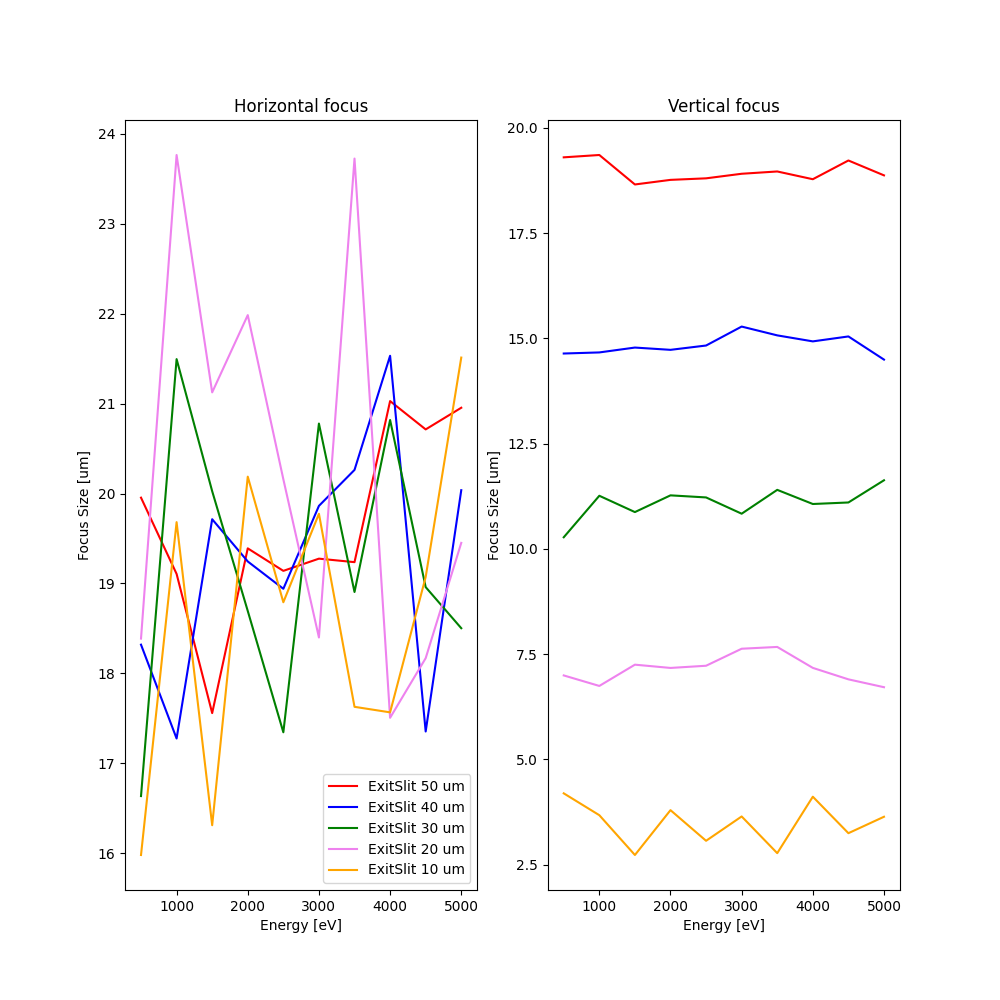
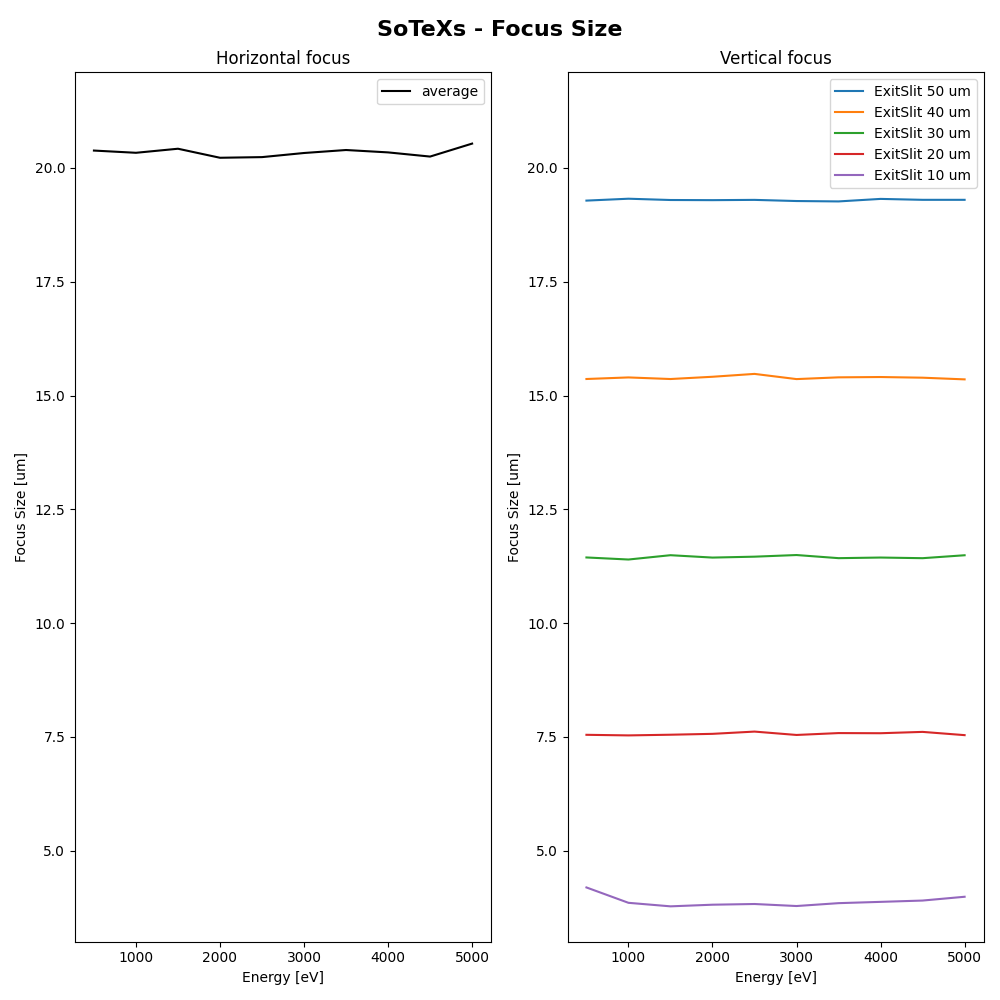
update plot to use params

diff --git a/simulation/1/produce_plot.py b/simulation/1/produce_plot.py
@@ -40,25 +40,18 @@ nsim         = energy_flux.shape[0]*SlitSize.shape[0]
 flux_percent_unordered = ppa.retrieve_flux_beamline(folder_name, source, oe, nsim, rounds=repeat_flux, current=0.3)
 flux_percent           = undulator_order(flux_percent_unordered)
 
-ens = energy_flux.shape[0]
-flux_percent_50 = flux_percent[0*ens:1*ens]
-flux_percent_40 = flux_percent[1*ens:2*ens]
-flux_percent_30 = flux_percent[2*ens:3*ens]
-flux_percent_20 = flux_percent[3*ens:4*ens]
-flux_percent_10 = flux_percent[4*ens:5*ens]
 
-flux_abs_50 = scale_undulator_flux(energy_flux,flux_percent_50, undulator_file)
-flux_abs_40 = scale_undulator_flux(energy_flux,flux_percent_40, undulator_file)
-flux_abs_30 = scale_undulator_flux(energy_flux,flux_percent_30, undulator_file)
-flux_abs_20 = scale_undulator_flux(energy_flux,flux_percent_20, undulator_file)
-flux_abs_10 = scale_undulator_flux(energy_flux,flux_percent_10, undulator_file)
+
 
 ### ML RP
 folder_name = 'RAYPy_Simulation_RP_battery_FLUX_forML_IrCrB4C'
 oe          = 'DetectorAtFocus'
 nsim        = energy_rp.shape[0]*SlitSize.shape[0]
 
-bw_ML_2400_2_un, focx_ML_2400_2_un, focy_ML_2400_2_un = ppa.retrieve_bw_and_focusSize(folder_name, oe, nsim, rounds=repeat_rp)
+bw_ML_2400_2_un, focx_ML_2400_2_un, focy_ML_2400_2_un = ppa.retrieve_bw_and_focusSize(folder_name, 
+                                                                                      oe, 
+                                                                                      nsim, 
+                                                                                      rounds=repeat_rp)
 bw_ML_2400_2    = undulator_order(bw_ML_2400_2_un)
 focx_ML_2400_2  = undulator_order(focx_ML_2400_2_un)
 focy_ML_2400_2  = undulator_order(focy_ML_2400_2_un)
@@ -67,33 +60,15 @@ focy_ML_2400_2  = undulator_order(focy_ML_2400_2_un)
 undulator = np.loadtxt(undulator_file, skiprows=8)
 
 
-# scaling
-flux_abs_50_MLBG_mfm_second = ML_eff(flux_abs_50, 
-                                    ind=index, 
-                                    energy=energy_flux,
-                                    grating_eff_file=grating_eff_file)
-flux_abs_40_MLBG_mfm_second = ML_eff(flux_abs_40, 
-                                    ind=index, 
-                                    energy=energy_flux,
-                                    grating_eff_file=grating_eff_file)
-flux_abs_30_MLBG_mfm_second = ML_eff(flux_abs_30, 
-                                    ind=index, 
-                                    energy=energy_flux,
-                                    grating_eff_file=grating_eff_file)
-flux_abs_20_MLBG_mfm_second = ML_eff(flux_abs_20, 
-                                    ind=index, 
-                                    energy=energy_flux,
-                                    grating_eff_file=grating_eff_file)
-flux_abs_10_MLBG_mfm_second = ML_eff(flux_abs_10, 
-                                    ind=index, 
-                                    energy=energy_flux,
-                                    grating_eff_file=grating_eff_file)
 
 
 ########################################
 # plotting Flux and RP
 
 fig, (axs) = plt.subplots(4, 2,figsize=(10,10))
+
+ens_flux = energy_flux.shape[0]
+ens_rp   = energy_rp.shape[0]
 
 # text
 ax = axs[0,0]
@@ -141,11 +116,9 @@ ax.set_title('CPMU20 Flux')
 
 # PERCENTAGE FLUX
 ax = axs[1,1]
-ax.plot(energy_flux,flux_percent_50, 'r', label='ExitSlit 50 um' )
-ax.plot(energy_flux,flux_percent_40, 'b', label='ExitSlit 40 um' )
-ax.plot(energy_flux,flux_percent_30, 'g', label='ExitSlit 30 um' )
-ax.plot(energy_flux,flux_percent_20, 'orange', label='ExitSlit 20 um' )
-ax.plot(energy_flux,flux_percent_10, 'violet', label='ExitSlit 10 um' )
+for ind, val in enumerate(SlitSize):
+    es=int(val*1000)
+    ax.plot(energy_flux,flux_percent[ind*ens_flux:(ind+1)*ens_flux], label=f'ExitSlit {es} um' )
 
 ax.set_xlabel(r'Energy [eV]')
 ax.set_ylabel('Transmission [%]')
@@ -157,11 +130,10 @@ ax.legend()
 # ABSOLUTE FLUX
 ax = axs[2,0]
 
-ax.plot(energy_flux,flux_abs_50, 'r', label='ExitSlit 50 um' )
-ax.plot(energy_flux,flux_abs_40, 'b', label='ExitSlit 40 um' )
-ax.plot(energy_flux,flux_abs_30, 'g', label='ExitSlit 30 um' )
-ax.plot(energy_flux,flux_abs_20, 'orange', label='ExitSlit 20 um' )
-ax.plot(energy_flux,flux_abs_10, 'violet', label='ExitSlit 10 um' )
+for ind, val in enumerate(SlitSize):
+    es=int(val*1000)
+    flux_abs = scale_undulator_flux(energy_flux,flux_percent[ind*ens_flux:(ind+1)*ens_flux], undulator_file)
+    ax.plot(energy_flux,flux_abs, label=f'ExitSlit {es} um' )
 
 ax.set_xlabel(r'Energy [eV]')
 ax.set_ylabel('Input Flux [ph/s/tbw]')
@@ -173,11 +145,16 @@ ax.grid(which='both', axis='both')
 # ABSOLUTE FLUX SCALED WITH ML EFF.
 ax = axs[2,1]
 
-ax.plot(energy_flux,flux_abs_50_MLBG_mfm_second, 'r', label='ExitSlit 50 um' )
-ax.plot(energy_flux,flux_abs_40_MLBG_mfm_second, 'b', label='ExitSlit 40 um' )
-ax.plot(energy_flux,flux_abs_30_MLBG_mfm_second, 'g', label='ExitSlit 30 um' )
-ax.plot(energy_flux,flux_abs_20_MLBG_mfm_second, 'orange', label='ExitSlit 20 um' )
-ax.plot(energy_flux,flux_abs_10_MLBG_mfm_second, 'violet', label='ExitSlit 10 um' )
+for ind, val in enumerate(SlitSize):
+    es=int(val*1000)
+    flux_abs = scale_undulator_flux(energy_flux,
+                                    flux_percent[ind*ens_flux:(ind+1)*ens_flux], 
+                                    undulator_file)
+    flux_abs_ML = ML_eff(flux_abs,
+                         ind=index, 
+                         energy=energy_flux,
+                         grating_eff_file=grating_eff_file)
+    ax.plot(energy_flux,flux_abs_ML, label=f'ExitSlit {es} um' )
 
 ax.set_xlabel(r'Energy [eV]')
 ax.set_ylabel('Flux [ph/s/tbw]')
@@ -188,13 +165,10 @@ ax.grid(which='both', axis='both')
 
 # BANDWIDTH
 ax = axs[3,0]
-ss = energy_rp.shape[0]
-ax.plot(energy_rp,bw_ML_2400_2[0*ss:1*ss],'r',label='ExitSlit 50 um')
-ax.plot(energy_rp,bw_ML_2400_2[1*ss:2*ss],'b',label='ExitSlit 40 um')
-ax.plot(energy_rp,bw_ML_2400_2[2*ss:3*ss],'g',label='ExitSlit 30 um')
-ax.plot(energy_rp,bw_ML_2400_2[3*ss:4*ss],'orange',label='ExitSlit 20 um')
-ax.plot(energy_rp,bw_ML_2400_2[4*ss:5*ss],'violet',label='ExitSlit 10 um')
-
+for ind, val in enumerate(SlitSize):
+    es=int(val*1000)
+    ax.plot(energy_rp,bw_ML_2400_2[ind*ens_rp:(ind+1)*ens_rp],label=f'ExitSlit {es} um')
+    
 
 ax.set_xlabel('Energy [eV]')
 ax.set_ylabel('Transmitted Bandwidth [eV]')
@@ -205,12 +179,10 @@ ax.grid(which='both', axis='both')
 
 # RESOLVING POWER
 ax = axs[3,1]
-ss = energy_rp.shape[0]
-ax.plot(energy_rp,energy_rp/bw_ML_2400_2[0*ss:1*ss],'r')#,label='ExitSlit 50 um')
-ax.plot(energy_rp,energy_rp/bw_ML_2400_2[1*ss:2*ss],'b')#,label='ExitSlit 40 um')
-ax.plot(energy_rp,energy_rp/bw_ML_2400_2[2*ss:3*ss],'g')#,label='ExitSlit 30 um')
-ax.plot(energy_rp,energy_rp/bw_ML_2400_2[3*ss:4*ss],'orange')#,label='ExitSlit 20 um')
-ax.plot(energy_rp,energy_rp/bw_ML_2400_2[4*ss:5*ss],'violet')#,label='ExitSlit 10 um')
+for ind, val in enumerate(SlitSize):
+    es=int(val*1000)
+    ax.plot(energy_rp,energy_rp/bw_ML_2400_2[ind*ens_rp:(ind+1)*ens_rp],label=f'ExitSlit {es} um')
+
 
 ax.axhline(y=6000, color='k', linestyle='dashed', label='RP=6000')
 
@@ -219,7 +191,7 @@ ax.set_ylabel('RP [a.u.]')
 ax.set_title('Resolving Power')
 ax.grid(which='both', axis='both')
 ax.legend()
-
+plt.suptitle('SoTeXs - Flux and Resolving Power', fontsize=16, fontweight='bold')
 plt.tight_layout()
 plt.savefig('plot/battery_beamline_IrCrB4C_2order_FluxRp.png')
 
@@ -228,33 +200,41 @@ plt.savefig('plot/battery_beamline_IrCrB4C_2order_FluxRp.png')
 # plotting FOCUS SIZE
 fig, (axs) = plt.subplots(1, 2,figsize=(10,10))
 
+# VERTICAL FOCUS
+ax = axs[1]
+focy_ML_2400_2 = focy_ML_2400_2*1000 # in micrometer
+for ind, val in enumerate(SlitSize):
+    es=int(val*1000)
+    ax.plot(energy_rp,focy_ML_2400_2[ind*ens_rp:(ind+1)*ens_rp],label=f'ExitSlit {es} um')
+bot, top = ax.get_ylim()
+ax.set_ylim(bottom=bot, top=top+2)
+ax.set_xlabel('Energy [eV]')
+ax.set_ylabel('Focus Size [um]')
+ax.set_title('Vertical focus')
+ax.legend()
+
+
 # HORIZONTAL FOCUS
 ax = axs[0]
 focx_ML_2400_2 = focx_ML_2400_2*1000 # in micrometer
-ax.plot(energy_rp, focx_ML_2400_2[0*ss:1*ss], 'r', label='ExitSlit 50 um')
-ax.plot(energy_rp, focx_ML_2400_2[1*ss:2*ss], 'b', label='ExitSlit 40 um')
-ax.plot(energy_rp, focx_ML_2400_2[2*ss:3*ss], 'g', label='ExitSlit 30 um')
-ax.plot(energy_rp, focx_ML_2400_2[3*ss:4*ss], 'violet', label='ExitSlit 20 um')
-ax.plot(energy_rp, focx_ML_2400_2[4*ss:5*ss], 'orange', label='ExitSlit 10 um')
+for ind, val in enumerate(SlitSize):
+    es=int(val*1000)
+    if ind ==0:
+        focx_ML_average=focx_ML_2400_2[ind*ens_rp:(ind+1)*ens_rp]
+    else:
+        focx_ML_average+=focx_ML_2400_2[ind*ens_rp:(ind+1)*ens_rp]
 
+    # ax.plot(energy_rp,focx_ML_2400_2[ind*ens_rp:(ind+1)*ens_rp],label=f'ExitSlit {es} um')
+ax.plot(energy_rp,focx_ML_average/(ind+1),'black', label=f'average')
+# bot = np.average(focx_ML_average/(ind+1))-2
+# top = np.average(focx_ML_average/(ind+1))+2
+ax.set_ylim(bottom=bot, top=top+2)
 ax.set_xlabel('Energy [eV]')
 ax.set_ylabel('Focus Size [um]')
 ax.set_title('Horizontal focus')
 ax.legend()
-
-# VERTICAL FOCUS
-ax = axs[1]
-focy_ML_2400_2 = focy_ML_2400_2*1000 # in micrometer
-ax.plot(energy_rp, focy_ML_2400_2[0*ss:1*ss], 'r', label='ExitSlit 50 um')
-ax.plot(energy_rp, focy_ML_2400_2[1*ss:2*ss], 'b', label='ExitSlit 40 um')
-ax.plot(energy_rp, focy_ML_2400_2[2*ss:3*ss], 'g', label='ExitSlit 30 um')
-ax.plot(energy_rp, focy_ML_2400_2[3*ss:4*ss], 'violet', label='ExitSlit 20 um')
-ax.plot(energy_rp, focy_ML_2400_2[4*ss:5*ss], 'orange', label='ExitSlit 10 um')
-
-ax.set_xlabel('Energy [eV]')
-ax.set_ylabel('Focus Size [um]')
-ax.set_title('Vertical focus')
-
+plt.suptitle('SoTeXs - Focus Size', fontsize=16, fontweight='bold')
+plt.tight_layout()
 plt.savefig('plot/battery_beamline_IrCrB4C_2order_focusSize.png')
 
 plt.show()

diff --git a/simulation/1/params.py b/simulation/1/params.py
@@ -5,9 +5,9 @@ energy_flux = np.arange(500, 5001,500)
 energy_rp   = np.arange(500, 5001,500)
 SlitSize    = np.array([0.05,0.04,0.03,0.02,0.01])
 nrays_flux  = 50000
-nrays_rp    = 50000
+nrays_rp    = 500000
 index       = 'MLBG_mfm_second'
 repeat_flux = 1
-repeat_rp   = 1
+repeat_rp   = 10
 ncpu_flux   = 10
 ncpu_rp     = 10

diff --git a/simulation/1/simulation_RP_ML_2400_secondOrder.py b/simulation/1/simulation_RP_ML_2400_secondOrder.py
@@ -54,4 +54,4 @@ sim.exports  =  [{beamline.CPMU20:['ScalarElementProperties']},
 #sim.rml_list()
 
 #uncomment to run the simulations
-sim.run(multiprocessing=ncpu, force=True)
+sim.run(multiprocessing=ncpu, force=False)
